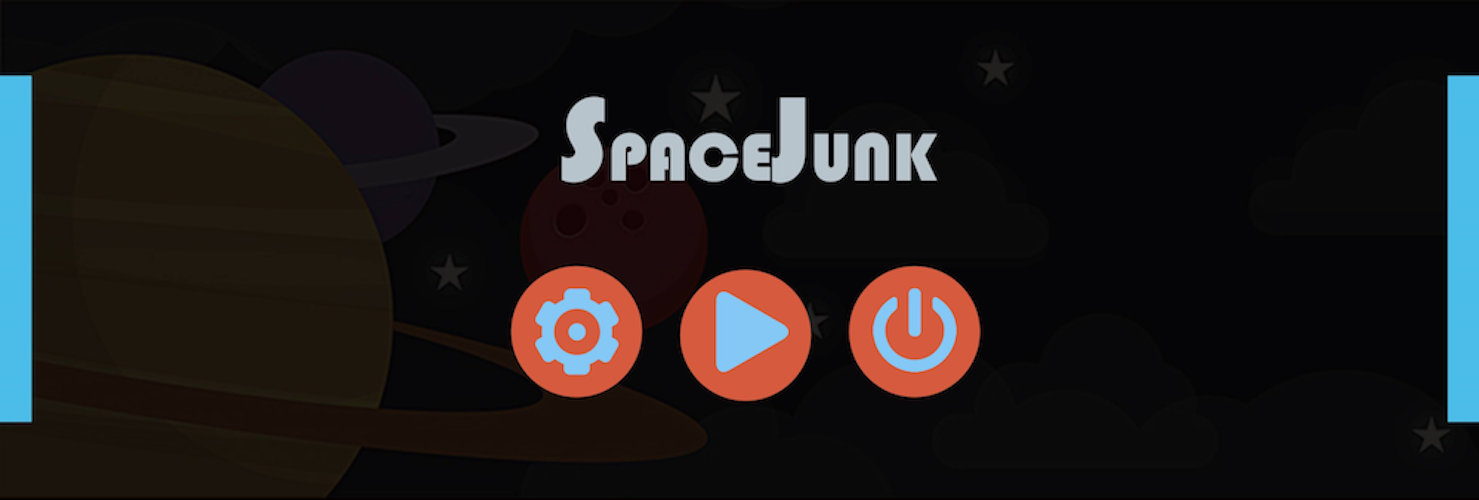
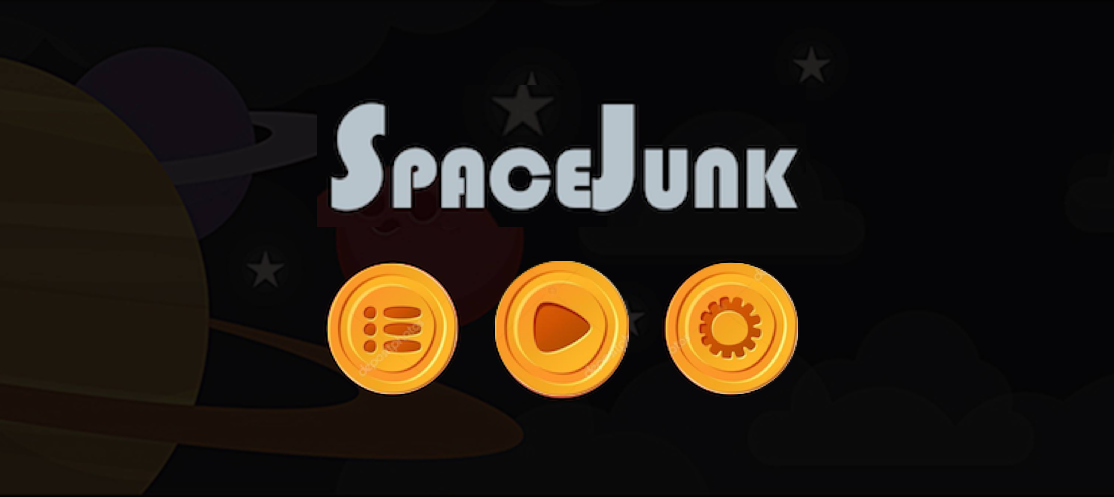
Redined pause menu texture

diff --git a/core/src/com/spacejunk/game/Controller.java b/core/src/com/spacejunk/game/Controller.java
@@ -46,7 +46,10 @@ public class Controller {
 
     public boolean pauseScreenResumeButtonIsPressed() {
         return Gdx.input.getX() >= (currentGame.getxMax() / 2) - 70 &&
-                Gdx.input.getX() <= (currentGame.getxMax() / 2) + 70;
+                Gdx.input.getX() <= (currentGame.getxMax() / 2) + 70 &&
+                /*Check y coordinates now*/
+                Gdx.input.getY() >= (currentGame.getyMax() / 2) &&
+                Gdx.input.getY() <=  (currentGame.getyMax() / 2) + 140;
     }
 
 

diff --git a/core/src/com/spacejunk/game/menus/OptionsMenu.java b/core/src/com/spacejunk/game/menus/OptionsMenu.java
@@ -24,7 +24,7 @@ public class OptionsMenu {
 
         optionsMenuTexures[0] = new Texture("main_menu.png");
         optionsMenuTexures[1] = new Texture("pause_button.png");
-        optionsMenuTexures[2] = new Texture("restart_button.png");
+        optionsMenuTexures[2] = new Texture("settings_menu.png");
     }
 
     public void render(SpriteBatch canvas) {
